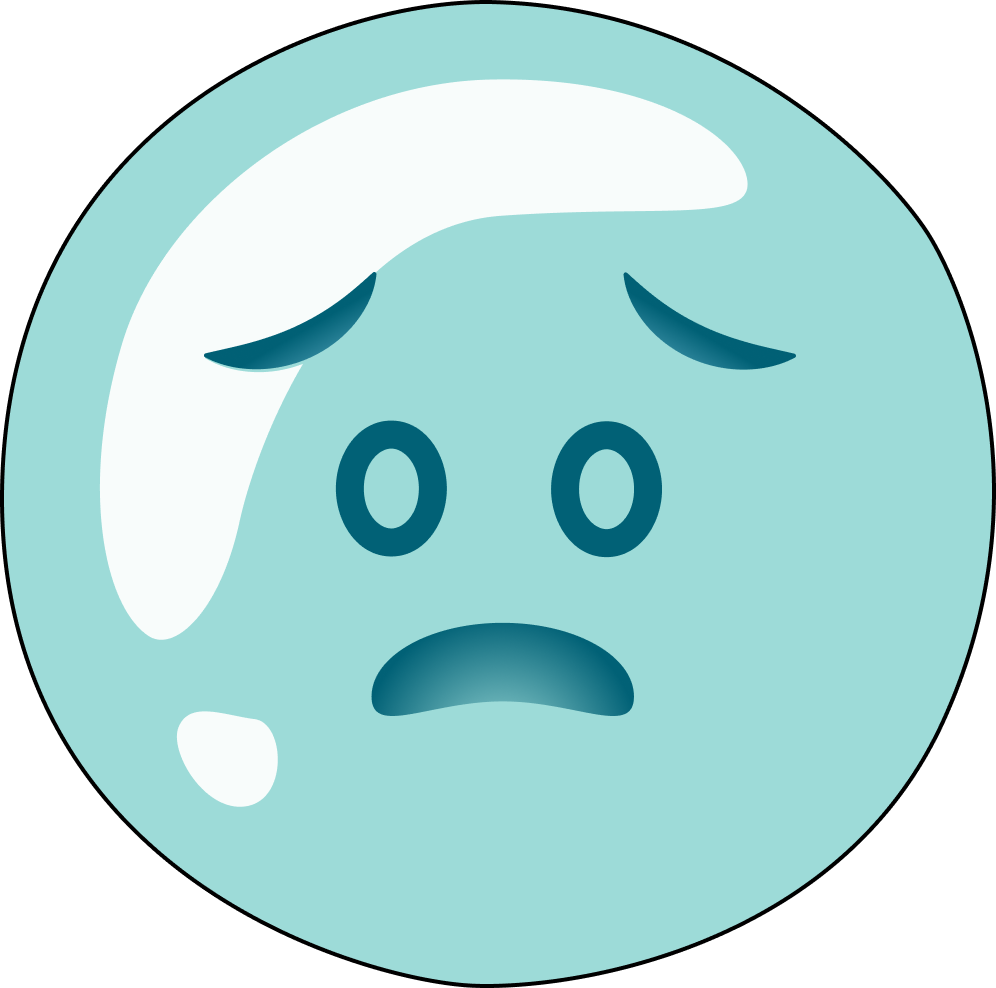
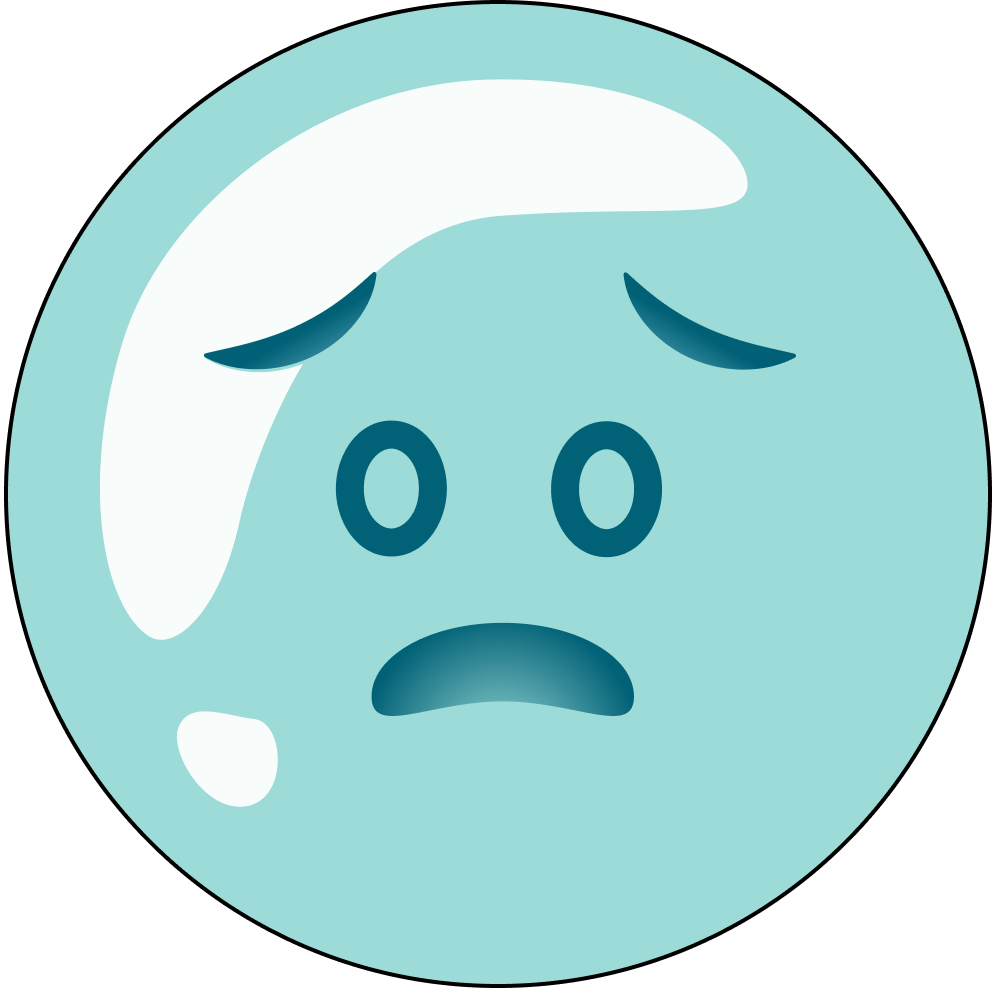
Update bubble and remove extra share button

diff --git a/pages/instruction_screen.html b/pages/instruction_screen.html
@@ -15,7 +15,5 @@
     <button id="emtpy" type="button">Play Game!</button>
     
     <button id="play_button" onclick="load()" type="button">Play Game!</button>
-    
-    <img class="share" id="share" onclick="share()" src="./img/end_screen/share.png">
 
 </div>
